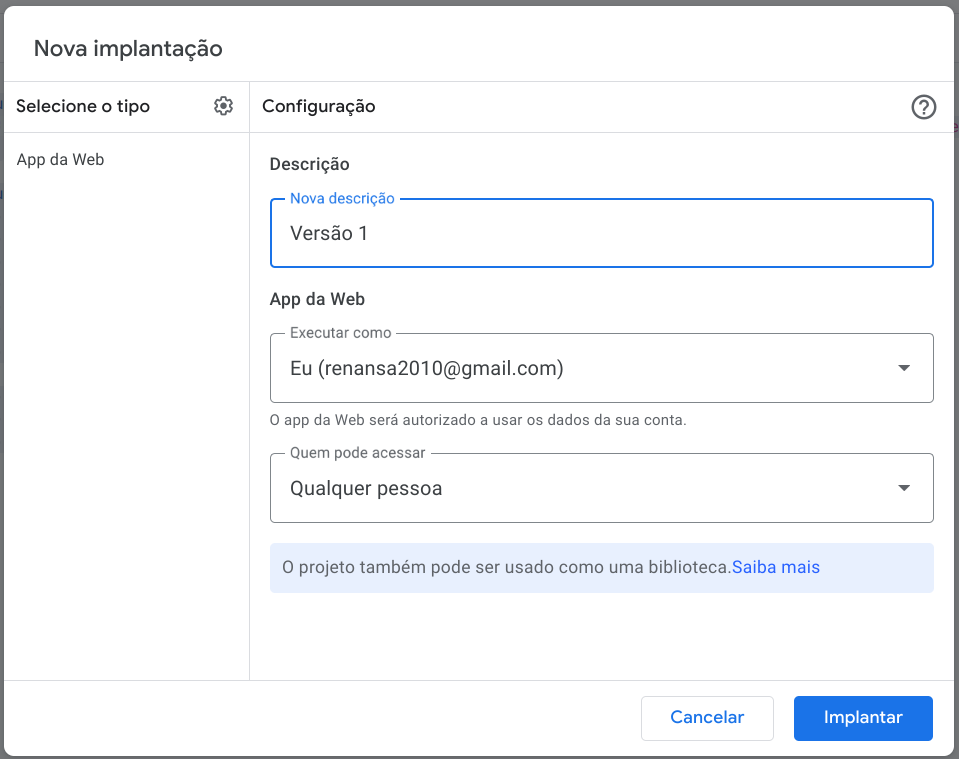
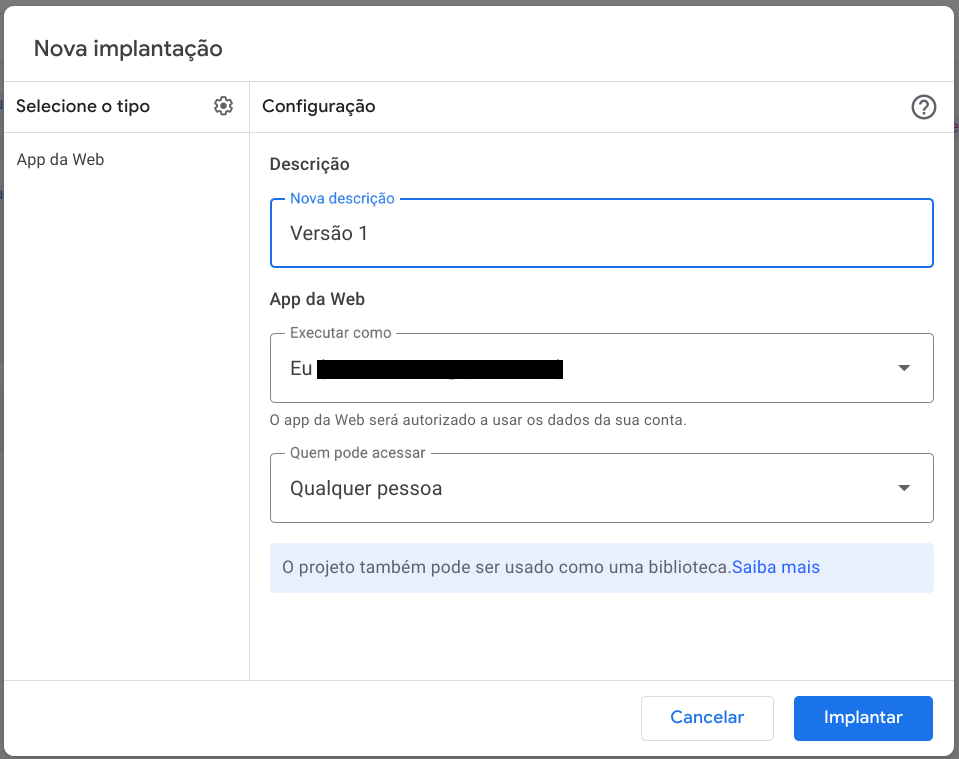
Correção removendo dados sensíveis do projeto

Changed region(s): [[0.3326, 0.4545, 0.6048, 0.5152]]

diff --git a/src/index.html b/src/index.html
@@ -37,7 +37,7 @@
         document.getElementById("meuFormulario").onsubmit = function(event) {
             event.preventDefault();
             const formData = new FormData(event.target);
-            fetch('https://script.google.com/macros/s/AKfycbw8eZnn5_jiMPa-BkXRxONA2u1_QXG6wbZWiomUqW0sukTtYIW-SBhkwSeZ-NBCElLB/exec', {
+            fetch('URL do App Web Google AQUI!', {
                 method: 'POST',
                 body: formData,
             }).then(response => response.text()).then(data => {
